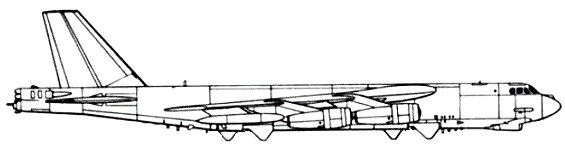
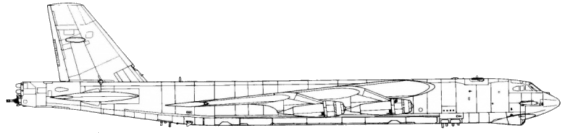
b52 new sprite

Changed region(s): [[0.0, 0.0, 1.0, 0.9624]]

diff --git a/shilka2/Aircrafts.cs b/shilka2/Aircrafts.cs
@@ -38,7 +38,7 @@ namespace shilka2
                 aircraftType = "b52",
                 aircraftName = "B-52 Stratofortress",
                 hitPoint = 120,
-                size = new int[] { 565, 155 },
+                size = new int[] { 565, 133 },
                 price = 53,
                 speed = 8,
                 minAltitude = minAltitudeForLargeAircraft,
